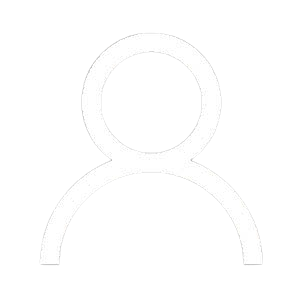
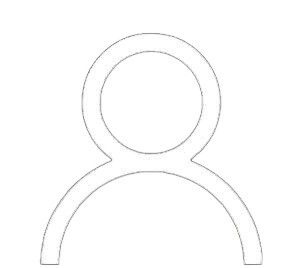
Completed Header & Footer Looks
- made the visuals and icons
- still need to add the hyperlinks to header

diff --git a/personal-portfolio/styles.css b/personal-portfolio/styles.css
@@ -104,7 +104,7 @@ body {
     background: #FF4B4B;
     width: 0%;
     position: fixed;
-    top: 0;
+    top: 43.3px;
     z-index: 1;
 }
 
@@ -120,7 +120,7 @@ body {
 
 .footer-nav h5 {
     font-weight: 400;
-    padding: 20px;
+    padding: 13px;
     margin: 0;
 }
 
@@ -128,7 +128,16 @@ body {
     width: 263px;
     display: flex;
     justify-content: space-evenly;
-    padding-top: 10px;
+    
+}
+
+#footer-icons a {
+    padding-top: 8px;
+    width: 100px;
+}
+
+#footer-icons a:hover {
+    background-color: #21130d;
 }
 
 #footer-icons a img {
@@ -144,6 +153,8 @@ body {
     overflow: hidden;
     font-family: 'Montserrat', sans-serif;
     color: #f2f2f2;
+    position: fixed;
+    width: 100%;
 }
 
 .header-nav a{
@@ -151,13 +162,18 @@ body {
     color: #f2f2f2;
     text-align: center;
     text-decoration: none;  
-    font-size: 17px;
-    padding: 14px 16px;
+    font-size: 19px;
+    padding: 10px;
    
   }
 
+  .header-nav a:hover {
+    background-color: #4c575c;
+  }
+
 .header-nav a img {
-    width: 30px;
+    height: 17px;
+    padding-right: 3px;
 }
 
 .header-nav a.split {

diff --git a/personal-portfolio/index.html b/personal-portfolio/index.html
@@ -18,8 +18,8 @@
 		<div class="header-nav">
 			<a href="#about" class="split"><img src="images/home.png" width="15px">&nbsp&nbspA. Tran</a>
 			
-			<a href="#news" class="header-icon">Projects</a>
-			<a href="#contact" class="header-icon">Skills</a>
+			<a href="#news" class="header-icon"><img src="images/project.png">Projects</a>
+			<a href="#contact" class="header-icon"><img src="images/skills.png">Skills</a>
 			<a href="#home" class="header-icon"><img src="images/person.png">About</a>
 			
 		</div>
